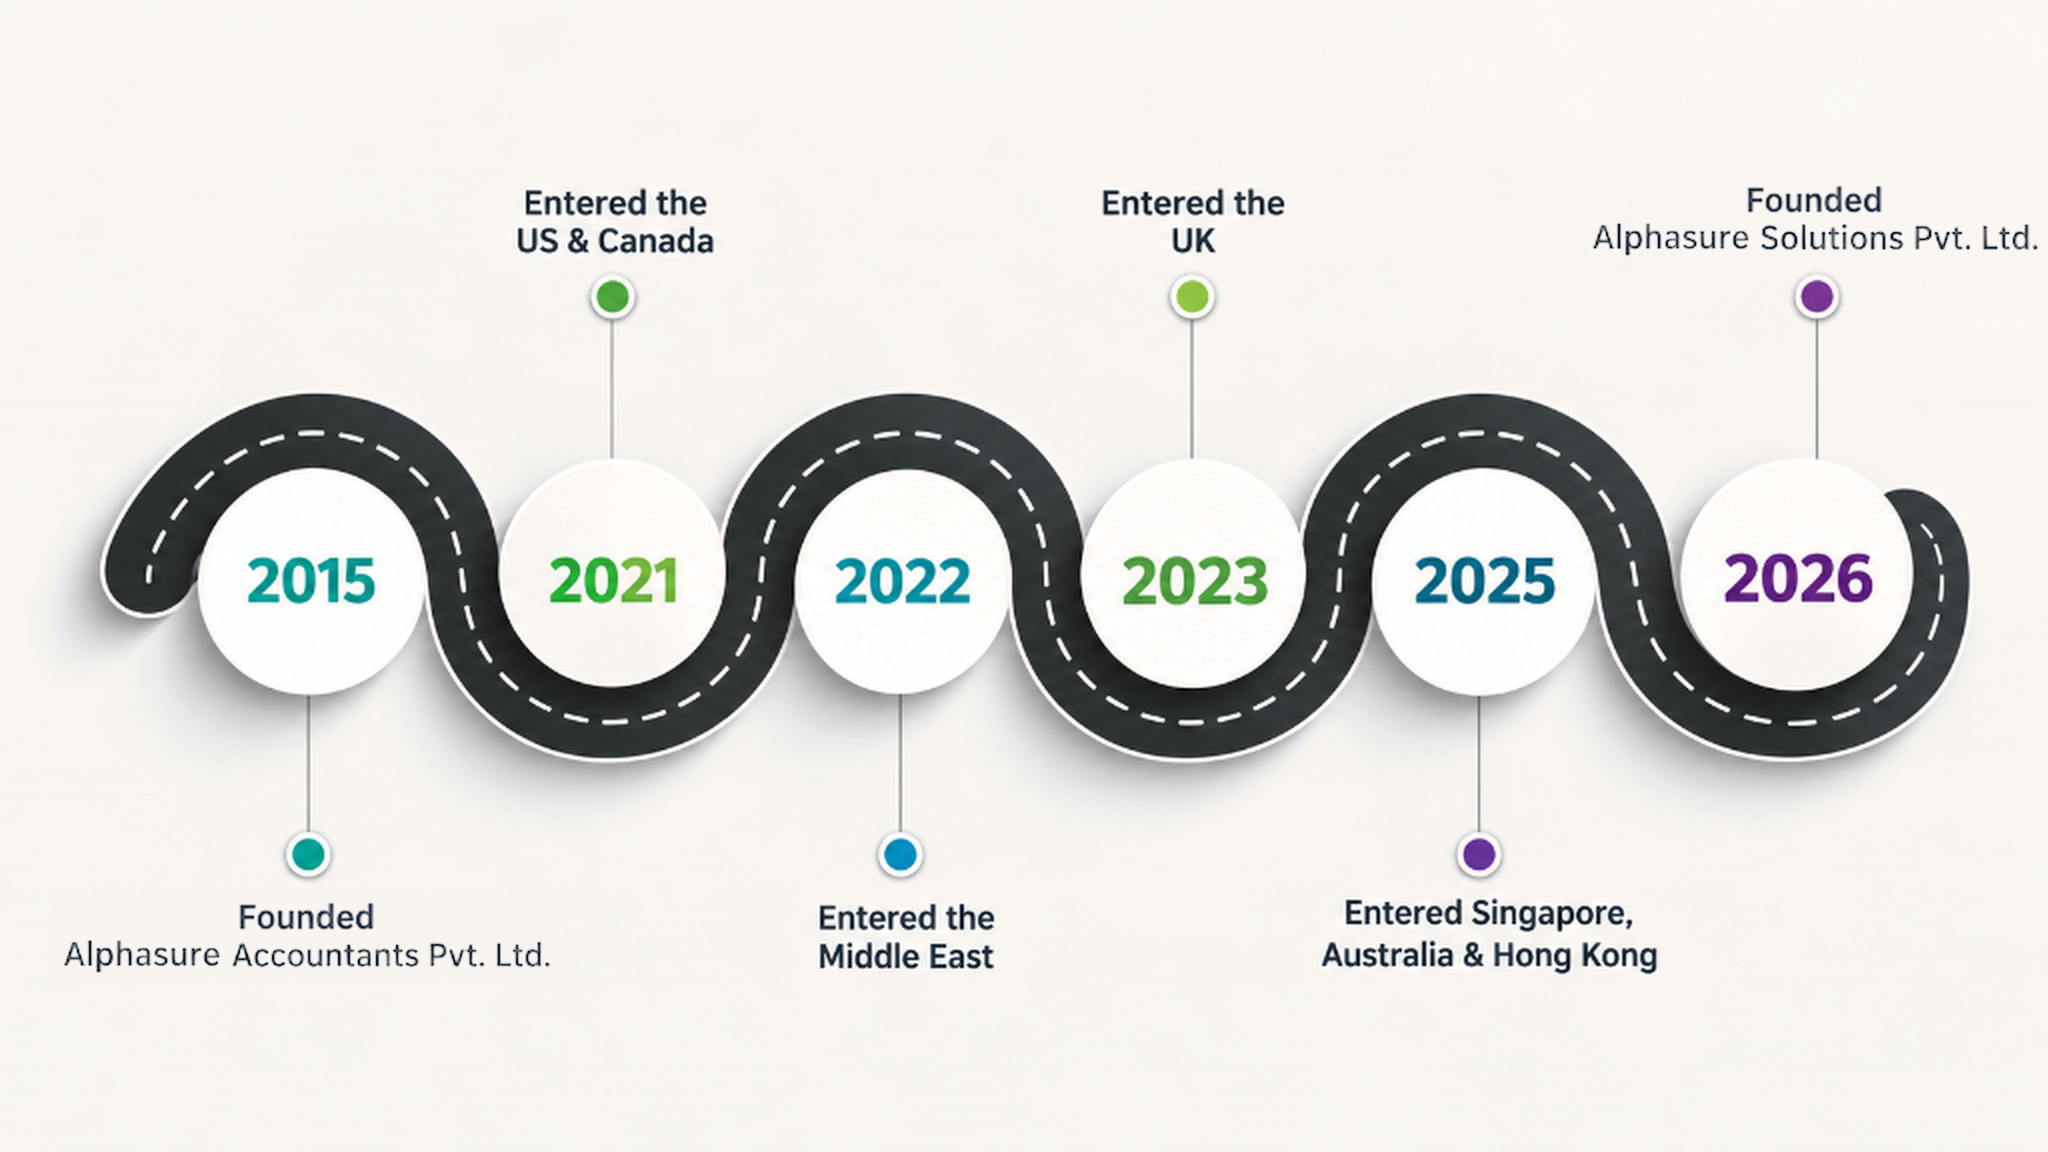
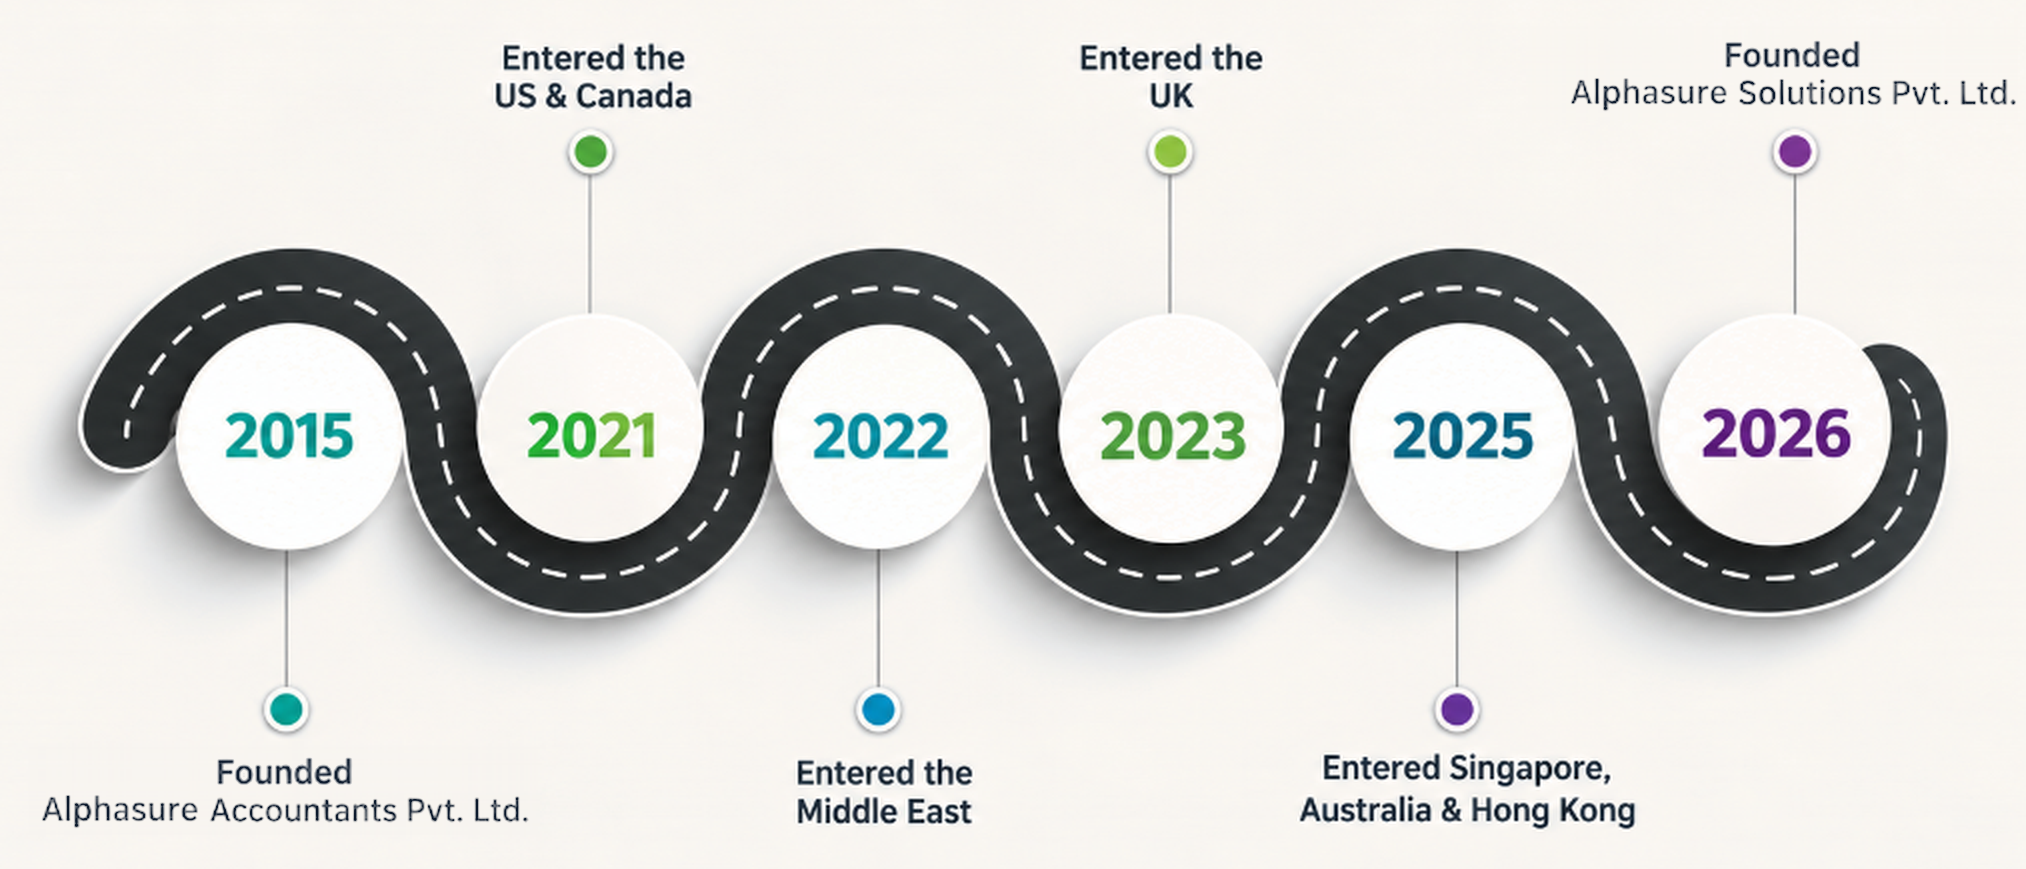
fix(our-journey): reduce vertical padding between heading and roadmap graphic

diff --git a/src/components/OurJourneySection.jsx b/src/components/OurJourneySection.jsx
@@ -3,7 +3,7 @@ import React from 'react';
 export default function OurJourneySection({ onOpenModal }) {
   return (
     <section 
-      className="relative w-full bg-[#FAF7F2] py-12 sm:py-16 lg:py-20 select-none overflow-hidden"
+      className="relative w-full bg-[#FAF7F2] py-[25px] select-none overflow-hidden"
       id="our-journey"
     >
       {/* Background Soft Elegant Accent Lines */}
@@ -17,7 +17,7 @@ export default function OurJourneySection({ onOpenModal }) {
       <div className="max-w-[1380px] mx-auto px-4 sm:px-6 lg:px-8 relative z-10">
 
         {/* ================= SECTION HEADER ================= */}
-        <div className="text-center max-w-3xl mx-auto mb-10 sm:mb-12 lg:mb-14 flex flex-col items-center">
+        <div className="text-center max-w-3xl mx-auto mb-3 sm:mb-4 lg:mb-5 flex flex-col items-center">
 
           
           <h2 className="alpha-h2 font-bold text-[#0B192C] tracking-tight">
@@ -41,7 +41,7 @@ export default function OurJourneySection({ onOpenModal }) {
             </span>
           </h2>
           
-          <p className="alpha-body text-slate-600 font-medium text-center mt-3.5 max-w-xl mx-auto">
+          <p className="alpha-body text-slate-600 font-medium text-center mt-2.5 max-w-xl mx-auto">
             One milestone at a time. One vision throughout.
           </p>
         </div>
@@ -53,10 +53,10 @@ export default function OurJourneySection({ onOpenModal }) {
           <div className="relative w-full overflow-hidden [mask-image:radial-gradient(ellipse_96%_92%_at_50%_50%,black_80%,transparent_100%)]">
             
             {/* Top Seamless Edge Vignette */}
-            <div className="absolute top-0 left-0 right-0 h-8 sm:h-12 bg-gradient-to-b from-[#FAF7F2] to-transparent pointer-events-none z-10" />
+            <div className="absolute top-0 left-0 right-0 h-3 sm:h-5 bg-gradient-to-b from-[#FAF7F2] to-transparent pointer-events-none z-10" />
             
             {/* Bottom Seamless Edge Vignette */}
-            <div className="absolute bottom-0 left-0 right-0 h-8 sm:h-14 bg-gradient-to-t from-[#FAF7F2] to-transparent pointer-events-none z-10" />
+            <div className="absolute bottom-0 left-0 right-0 h-3 sm:h-5 bg-gradient-to-t from-[#FAF7F2] to-transparent pointer-events-none z-10" />
             
             {/* Left Seamless Edge Vignette */}
             <div className="absolute left-0 top-0 bottom-0 w-8 sm:w-16 bg-gradient-to-r from-[#FAF7F2] to-transparent pointer-events-none z-10" />
@@ -65,8 +65,8 @@ export default function OurJourneySection({ onOpenModal }) {
             <div className="absolute right-0 top-0 bottom-0 w-8 sm:w-16 bg-gradient-to-l from-[#FAF7F2] to-transparent pointer-events-none z-10" />
 
             <img 
-              src="/images/our-journey-timeline-v5.png?v=6" 
-              srcSet="/images/our-journey-timeline-v5.png?v=6 1x, /images/our-journey-timeline-v5-2x.png?v=6 2x"
+              src="/images/our-journey-timeline-v5.png?v=7" 
+              srcSet="/images/our-journey-timeline-v5.png?v=7 1x, /images/our-journey-timeline-v5-2x.png?v=7 2x"
               alt="Alphasure Journey Roadmap - From 2015 Foundation to 2026 Alphasure Solutions"
               className="w-full h-auto object-contain select-none"
               loading="eager"
